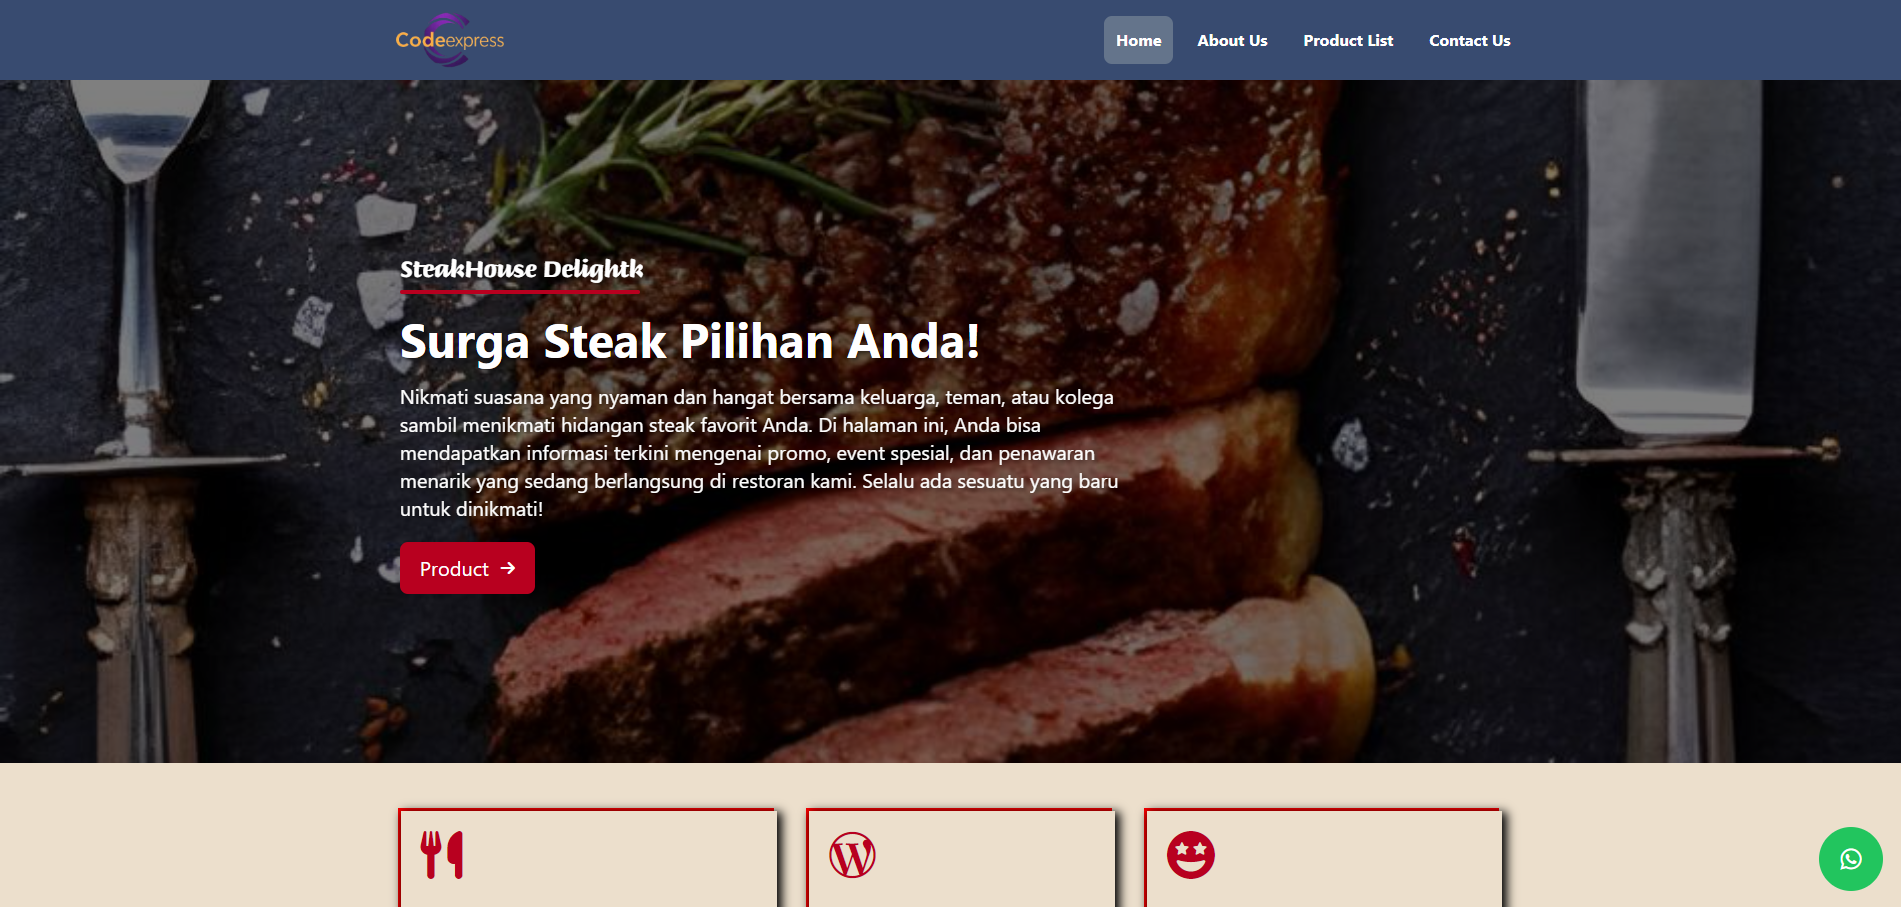
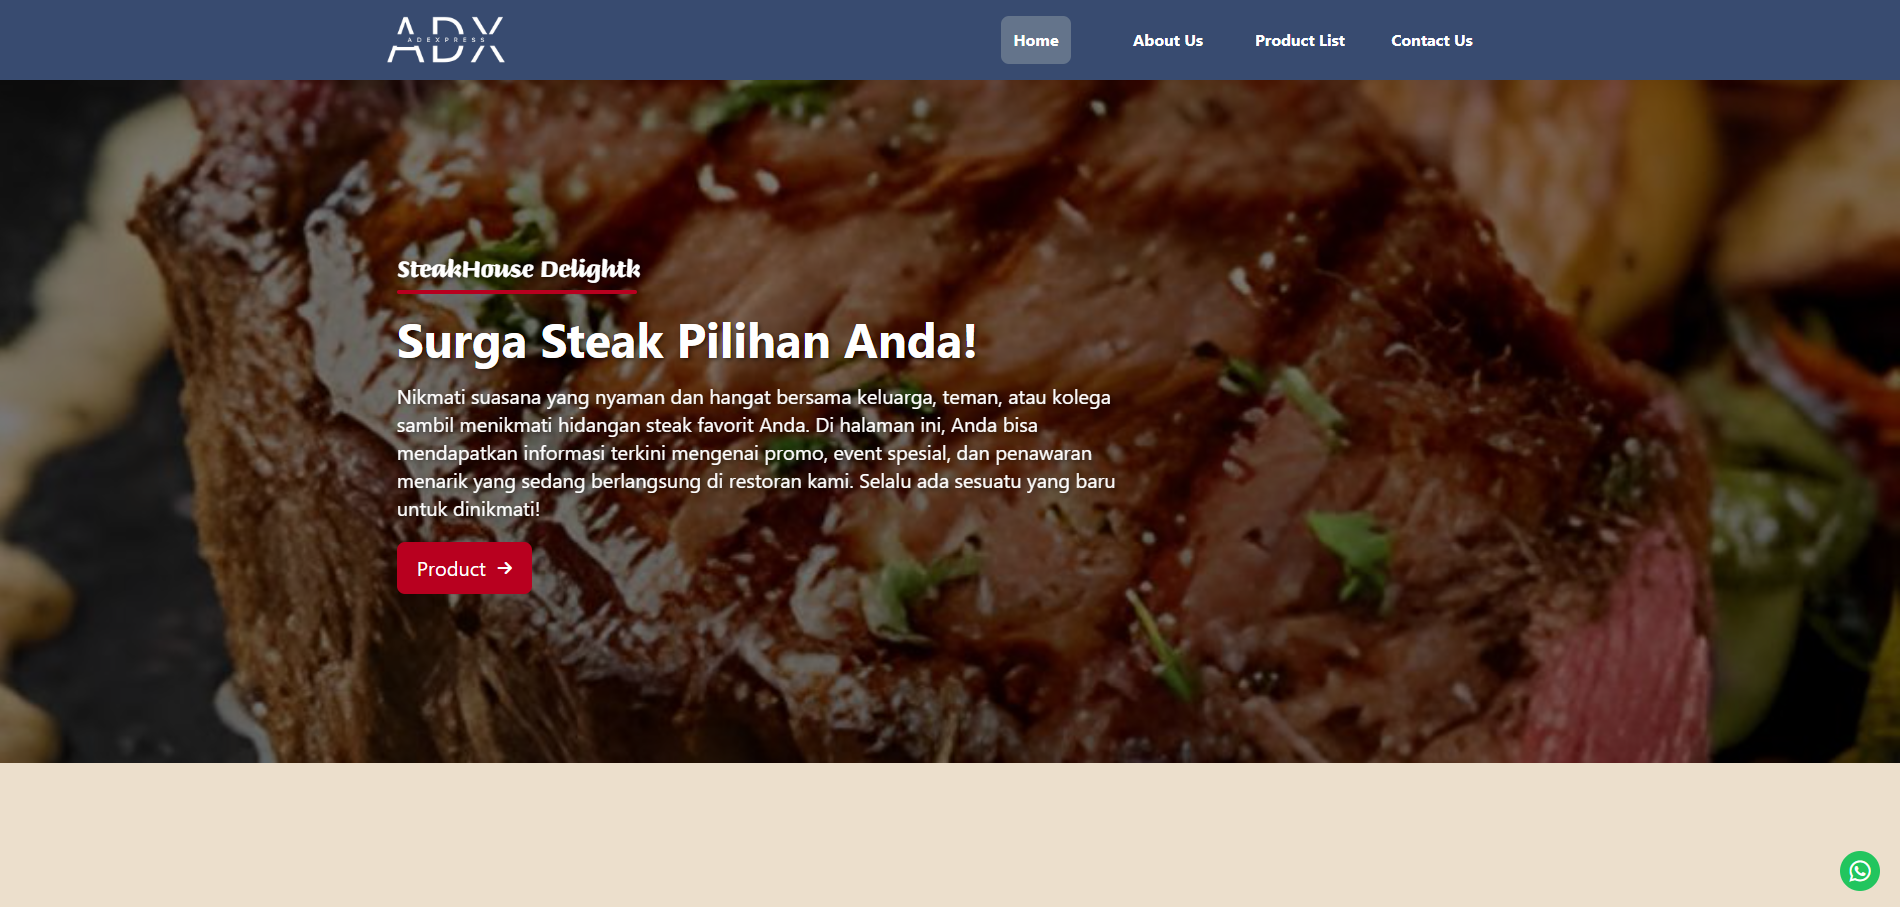
fix project

diff --git a/src/utils/faq.jsx b/src/utils/faq.jsx
@@ -1,29 +1,34 @@
 const Faq = [
-    {
-        id: 1,
-        question: "Apa sih Web CodeExpress?",
-        answer: 'Web CodeExpress merupakan platform pembuatan website secara instan untuk membantu UMKM/Bisnis Skala Kecil dan CodeExpress mempunyai website secara mudah dan murah. Kalian akan mendapatkan Website keren yang siap edit dalam waktu maksimal 2x24 jam setelah melakukan pemesanan. Website tersebut membantu untuk mengembangkan bisnis yang kamu punya. Keren kan!'
-    },
-    {
-        id: 2,
-        question: "Apa yang terjadi setelah saya melakukan pembayaran?",
-        answer: 'Admin kami akan mengecek terlebih dahulu apakah pembayaran DP yang anda lakukan sudah masuk atau belum. Lalu admin kami akan memberitahu bahwa website yang anda pesan akan siap maksimal 2x24 jam setelah pembayaran dilakukan. Jadi bisa lebih cepat ya teman-teman jadinya! Jika website anda sudah siap admin kami akan memberitahukan kembali bahwa website yang anda pesan sudah siap dan anda bisa untuk melakukan pelunasan pembayaran. Jangan ragu bertanya juga ke admin kami jika anda mengalami kendala selama proses tersebut.'
-    },
-    {
-        id: 3,
-        question: "Apa itu tamplate website CodeExpress?",
-        answer: 'Template Website Web CodeExpress merupakan design website siap pakai yang sudah dibuat oleh pihak Web CodeExpress. Kami mempunyai ratusan Template Website yang sudah disesuaikan untuk kebutuhan bisnis masing-masing. Jadi kamu tidak perlu lagi melalui proses design website yang rumit dan tinggal mengganti logo, tulisan, dan gambar yang ada di website kamu. Jadi gak ribet lagi deh! Terus, kalau kamu ingin mengganti design website kamu dengan template yang lain, cukup kontak Customer Service kami via Whatsapp/DM Instagram. GRATIS!'
-    },
-    {
-        id: 4,
-        question: "Bagaimana jika tidak menemukan template yang diinginkan?",
-        answer: 'Jika template yang kami sediakan tidak ada yang sesuai dengan yang anda inginkan, tenang saja anda tetap bisa mewujudkan website impian anda sesuai dengan design yang anda mau. Anda bisa langsung untuk menghubungi admin kami untuk melakukan diskusi mengenai website yang anda inginkan. Mudah bukan?'
-    },
-    {
-        id: 5,
-        question: "Bisakah membatalkan pembelian website di Web CodeExpress?",
-        answer: 'Bisa, akan tetapi mohon maaf Web CodeExpress tidak akan mengembalikan dana penuh yang telah anda bayar, karena setiap website yang dipesan akan otomatis dikerjakan oleh tim kami. Jadi kalian harus memastikan website yang dipesan benar-benar sesuai yah!'
-    },
-]
+  {
+    id: 1,
+    question: "Apa sih Web ADEexpress?",
+    answer:
+      "Web ADEexpress merupakan platform pembuatan website secara instan untuk membantu UMKM/Bisnis Skala Kecil dan ADEexpress mempunyai website secara mudah dan murah. Kalian akan mendapatkan Website keren yang siap edit dalam waktu maksimal 2x24 jam setelah melakukan pemesanan. Website tersebut membantu untuk mengembangkan bisnis yang kamu punya. Keren kan!",
+  },
+  {
+    id: 2,
+    question: "Apa yang terjadi setelah saya melakukan pembayaran?",
+    answer:
+      "Admin kami akan mengecek terlebih dahulu apakah pembayaran DP yang anda lakukan sudah masuk atau belum. Lalu admin kami akan memberitahu bahwa website yang anda pesan akan siap maksimal 2x24 jam setelah pembayaran dilakukan. Jadi bisa lebih cepat ya teman-teman jadinya! Jika website anda sudah siap admin kami akan memberitahukan kembali bahwa website yang anda pesan sudah siap dan anda bisa untuk melakukan pelunasan pembayaran. Jangan ragu bertanya juga ke admin kami jika anda mengalami kendala selama proses tersebut.",
+  },
+  {
+    id: 3,
+    question: "Apa itu tamplate website ADEexpress?",
+    answer:
+      "Template Website Web ADEexpress merupakan design website siap pakai yang sudah dibuat oleh pihak Web ADEexpress. Kami mempunyai ratusan Template Website yang sudah disesuaikan untuk kebutuhan bisnis masing-masing. Jadi kamu tidak perlu lagi melalui proses design website yang rumit dan tinggal mengganti logo, tulisan, dan gambar yang ada di website kamu. Jadi gak ribet lagi deh! Terus, kalau kamu ingin mengganti design website kamu dengan template yang lain, cukup kontak Customer Service kami via Whatsapp/DM Instagram. GRATIS!",
+  },
+  {
+    id: 4,
+    question: "Bagaimana jika tidak menemukan template yang diinginkan?",
+    answer:
+      "Jika template yang kami sediakan tidak ada yang sesuai dengan yang anda inginkan, tenang saja anda tetap bisa mewujudkan website impian anda sesuai dengan design yang anda mau. Anda bisa langsung untuk menghubungi admin kami untuk melakukan diskusi mengenai website yang anda inginkan. Mudah bukan?",
+  },
+  {
+    id: 5,
+    question: "Bisakah membatalkan pembelian website di Web ADEexpress?",
+    answer:
+      "Bisa, akan tetapi mohon maaf Web ADEexpress tidak akan mengembalikan dana penuh yang telah anda bayar, karena setiap website yang dipesan akan otomatis dikerjakan oleh tim kami. Jadi kalian harus memastikan website yang dipesan benar-benar sesuai yah!",
+  },
+];
 
 export default Faq;

diff --git a/src/components/Layout/AuthLayout.jsx b/src/components/Layout/AuthLayout.jsx
@@ -9,7 +9,7 @@ const AuthLayout = ({ children }) => {
           <a href="" className="-ms-2">
             <img
               src="./images/logo.png"
-              alt="CodeExpress"
+              alt="ADExpress"
               className="w-32 md:w-36"
             />
           </a>
@@ -34,12 +34,12 @@ const AuthLayout = ({ children }) => {
         <section className="flex flex-col gap-y-5 md:flex-row md:p-5 md:justify-center md:items-center md:gap-x-5 xl:w-3/5 xl:self-center">
           <div className="md:w-1/3">
             <img
-              src="/images/logotext.png"
-              alt="CodeExpress"
+              src="/images/logo.png"
+              alt="ADExpress"
               className="w-52 -mt-20 -ms-10"
             />
-            <p className="-mt-20">
-              Mari wujudkan impian kalian bersama CodeExpress
+            <p className="-mt-16">
+              Mari wujudkan impian kalian bersama ADExpress
             </p>
           </div>
 
@@ -70,7 +70,7 @@ const AuthLayout = ({ children }) => {
             <ul className="flex flex-col gap-y-3">
               <li className="flex gap-x-3 items-center">
                 <img src="/images/email.png" alt="Email" className="w-6" />
-                <p>codeexpress@gmai.com</p>
+                <p>ADExpress@gmai.com</p>
               </li>
               <li className="flex gap-x-3 items-center">
                 <a
@@ -89,7 +89,7 @@ const AuthLayout = ({ children }) => {
 
         <div className="text-center flex justify-center items-start p-3">
           <p className="text-sm -mt-4 md:text-xl">
-            © Copyright 2024. All Rights Reserved by CodeExpress
+            © Copyright 2024. All Rights Reserved by ADExpress
           </p>
         </div>
       </footer>

diff --git a/src/utils/template.js b/src/utils/template.js
@@ -1,16 +1,22 @@
 const Template = [
-    {
-        id: 1,
-        name: 'SteakHouse Delight',
-        image: '/images/template1.png',
-        url: 'https://steakhousedelight.vercel.app/'
-    },
-    {
-        id: 2,
-        name: 'Apex Tech Solutions',
-        image: '/images/template2.png',
-        url: 'https://apextechsolutions.vercel.app/'
-    },
-]
+  {
+    id: 1,
+    name: "SteakHouse Delight",
+    image: "/images/template1.png",
+    url: "https://steakhousedelight.vercel.app/",
+  },
+  {
+    id: 2,
+    name: "Apex Tech Solutions",
+    image: "/images/template2.png",
+    url: "https://apextechsolutions.vercel.app/",
+  },
+  {
+    id: 3,
+    name: "TGM",
+    image: "/images/template3.png",
+    url: "https://tgm99.com/",
+  },
+];
 
-export default Template
+export default Template;

diff --git a/index.html b/index.html
@@ -1,12 +1,15 @@
-<!doctype html>
+<!DOCTYPE html>
 <html lang="en">
   <head>
     <meta charset="UTF-8" />
     <link rel="icon" type="image/png" href="/images/logo.png" />
     <link rel="icon" type="image/svg+xml" href="/vite.svg" />
     <meta name="viewport" content="width=device-width, initial-scale=1.0" />
-    <link href="https://cdnjs.cloudflare.com/ajax/libs/font-awesome/6.0.0-beta3/css/all.min.css" rel="stylesheet">
-    <title>Wujudkan Impian Kalian dengan Membuat Website di CodeExpress</title>
+    <link
+      href="https://cdnjs.cloudflare.com/ajax/libs/font-awesome/6.0.0-beta3/css/all.min.css"
+      rel="stylesheet"
+    />
+    <title>Wujudkan Impian Kalian dengan Membuat Website di ADExpress</title>
   </head>
   <body>
     <div id="root"></div>

diff --git a/src/components/Fragments/HomeSection.jsx b/src/components/Fragments/HomeSection.jsx
@@ -360,7 +360,7 @@ const HomeSection = () => {
       </section>
 
       <section className="w-full h-20 flex items-center justify-center bg-black rounded-2xl mb-3 md:mb-12 xl:self-center xl:w-3/5">
-        <img src="/images/logo.png" alt="CodeExpress" className="w-52" />
+        <img src="/images/logo.png" alt="ADExpress" className="w-52" />
       </section>
     </Fragment>
   );
